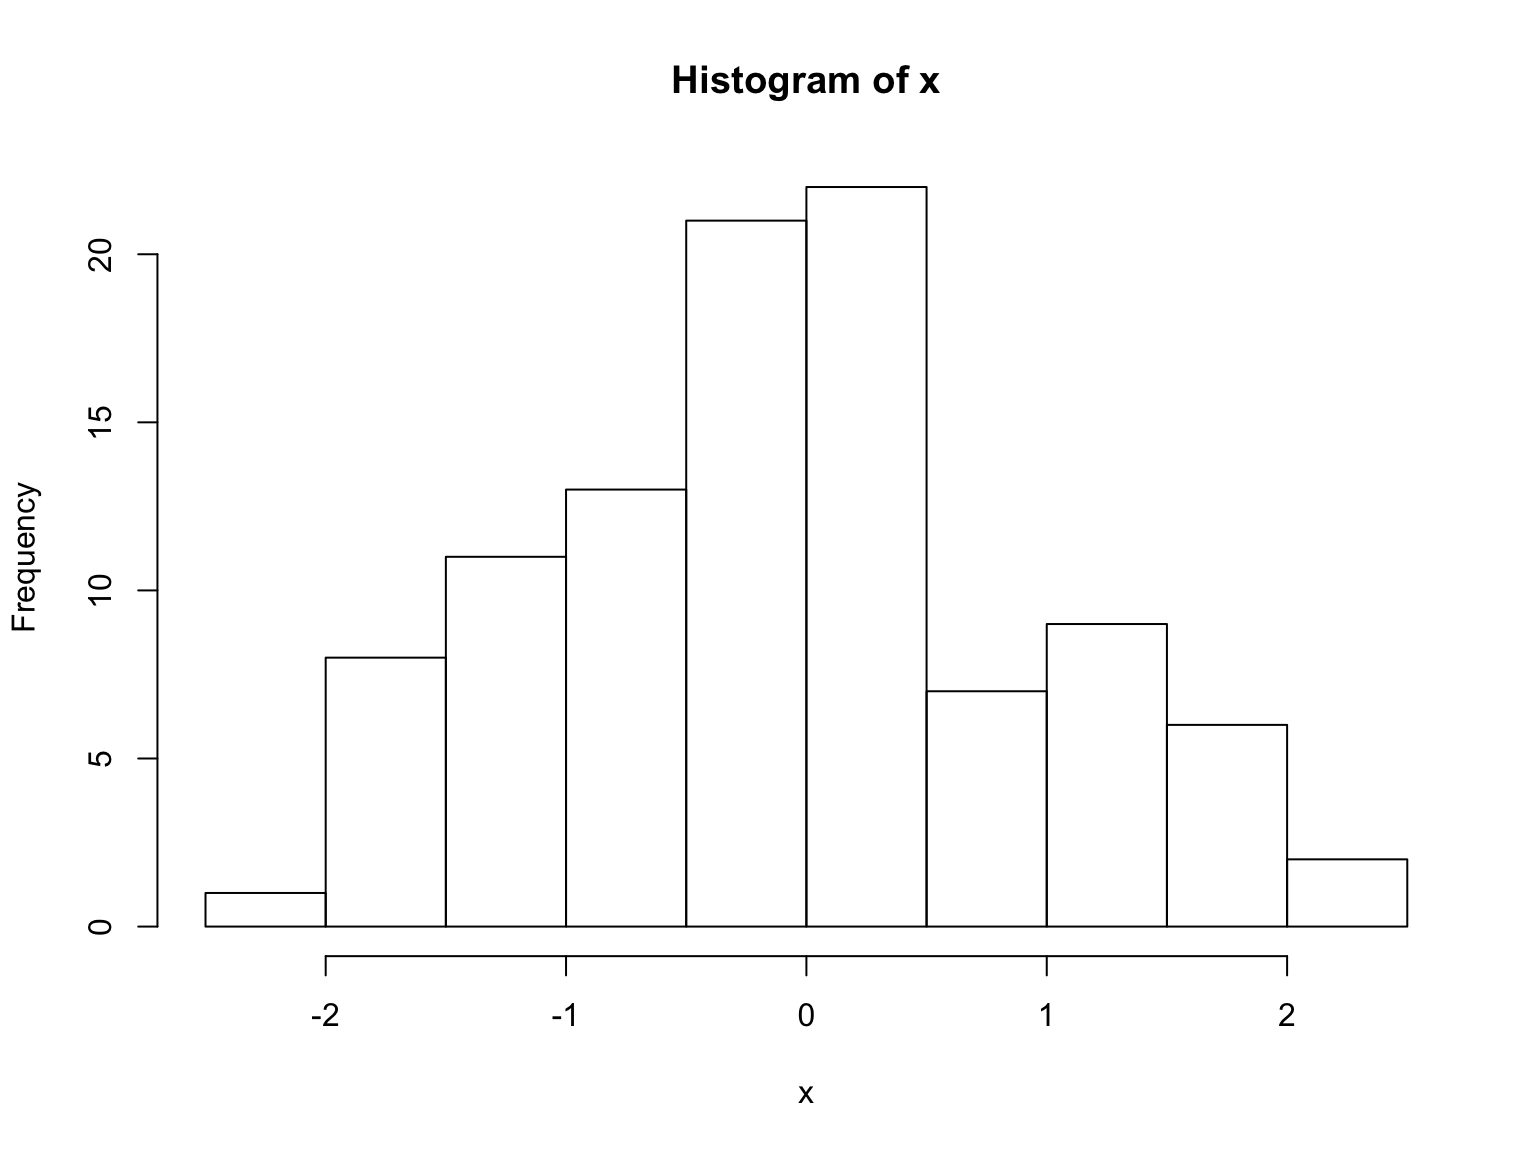
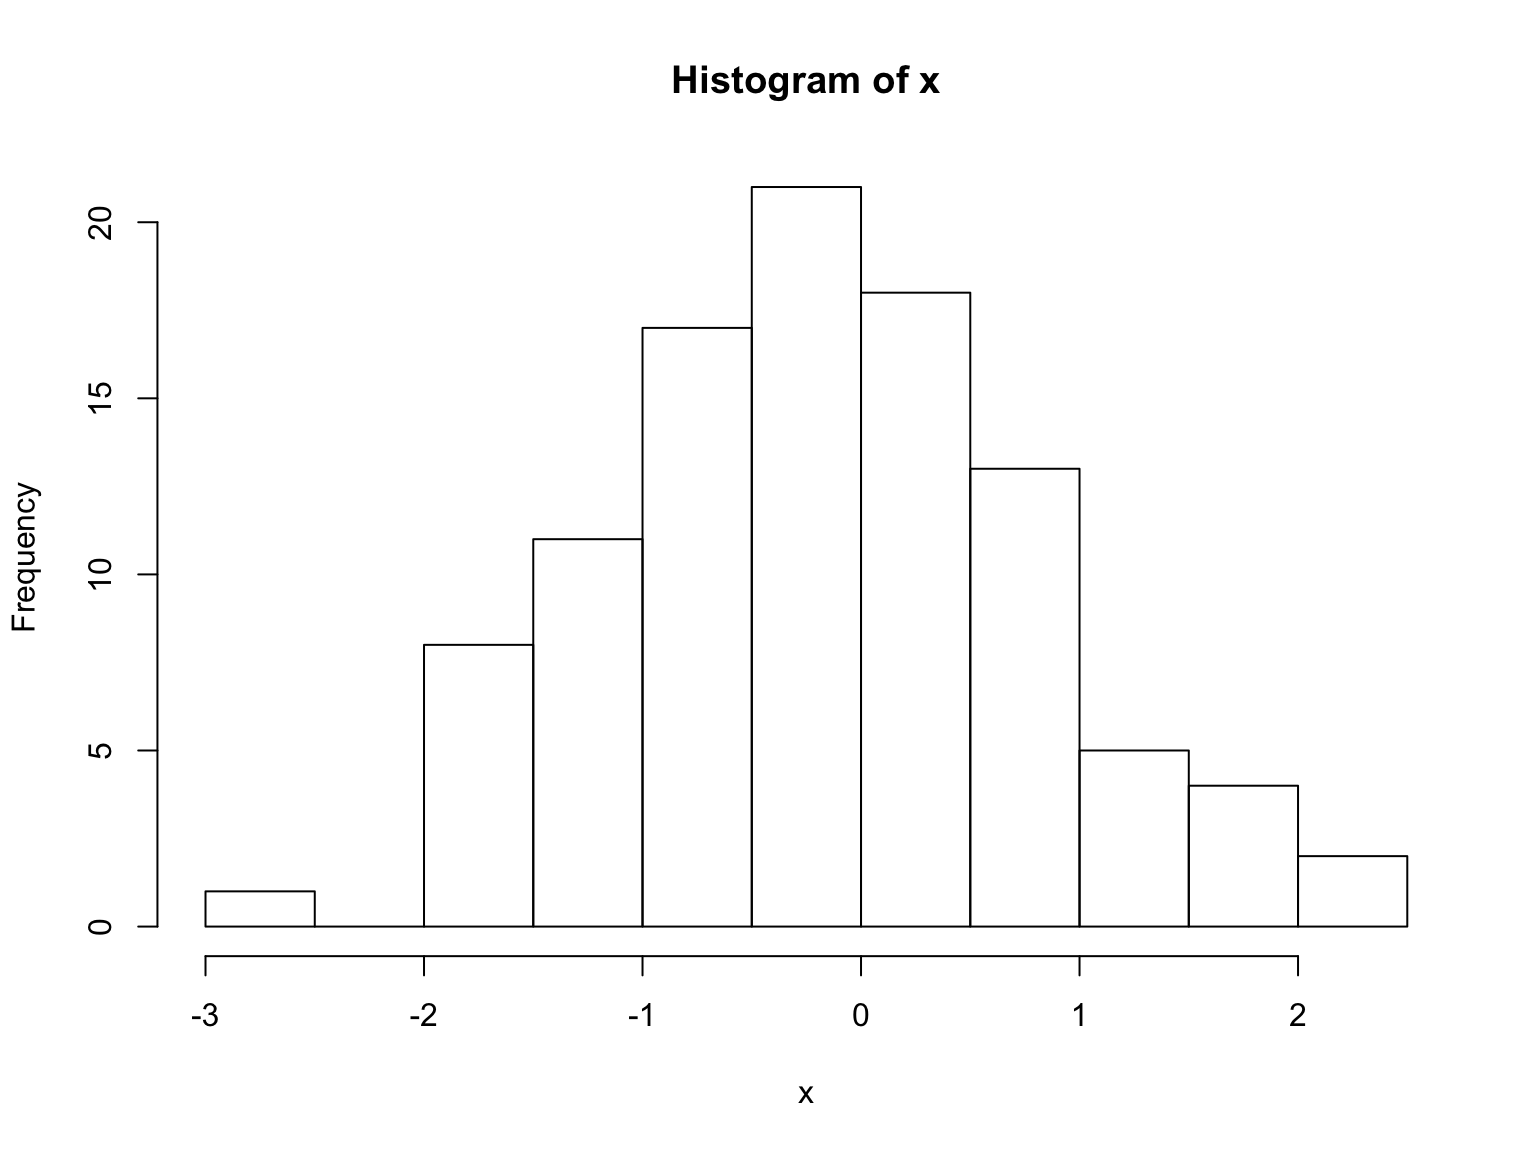
Fix typos

diff --git a/index.html b/index.html
@@ -494,6 +494,10 @@ document.getElementsByTagName('head')[0].appendChild(style);
 <p><img src="https://upload.wikimedia.org/wikipedia/commons/8/87/NSF_Logo.PNG" height=150px> <img src="https://science.nichd.nih.gov/confluence/download/attachments/34472103/NICHD-vertical-2-color.png?version=1&modificationDate=1477410070000&api=v2" height=150px> </br> <img src="https://sloan.org/storage/app/media/Logos/Sloan-Logo-stacked-black-web.png" height=150px> <img src="http://newsroom.unl.edu/announce/files/file77330.jpg" height=150px/> <img src="https://www.unicef.org.hk/wp-content/uploads/2017/08/Logo-05_Lego-foundation_UNICEF_partnership.jpg" height=150px /> </br> <img src="https://nationalpress.org/wp-content/uploads/2016/04/NIDA-logo-300x300.jpg" height=150px/> <img src="http://bewellva.com/wp-content/uploads/2017/12/NIMH-Logo_14-e1510955490255.jpg" height=150px/></p>
 <!-- Funding sources with icons -->
 </section>
+<section class="slide level2">
+
+<p><img src="https://upload.wikimedia.org/wikipedia/commons/thumb/0/0b/DenverCP.JPG/266px-DenverCP.JPG" height=150px/> <img src="http://watson.brown.edu/ds/sites/all/themes/ds/img/header/brown_large.png" height=150px/> <img src="https://www.wheretraveler.com/sites/default/files/styles/wt17_promoted/public/WashingtonDC-shutterstock_93633676.jpg?itok=IT7CL9PU" height=150px/> <img src="https://ai.cs.cmu.edu/sites/default/files/CMU.png" height=150px/> <img src="http://onwardstate.com/wp-content/uploads/2014/10/93" height=150px/> <img src="img/sleic.jpg" height=150px/></br> <img src="https://nyu.databrary.org/web/images/logo/databrary-nav.svg" height=150px></p>
+</section>
 <section id="agenda" class="slide level2">
 <h2>Agenda</h2>
 <ul>
@@ -541,8 +545,8 @@ document.getElementsByTagName('head')[0].appendChild(style);
 <aside class="notes">
 <p>Nature conducted a survey of some 1,600 scientists in 2016. They were asked this question and a few others. Here are the results.</p>
 </aside>
-</section><section id="have-you-failed-to-repoduce-an-experiment-from-your-lab-or-someone-elses" class="slide level2">
-<h2>Have you failed to repoduce an experiment from your lab or someone else’s?</h2>
+</section><section id="have-you-failed-to-reproduce-an-experiment-from-your-lab-or-someone-elses" class="slide level2">
+<h2>Have you failed to reproduce an experiment from your lab or someone else’s?</h2>
 </section><section class="slide level2">
 
 <div class="centered">
@@ -684,14 +688,15 @@ document.getElementsByTagName('head')[0].appendChild(style);
 
 <ul>
 <li>Lab website vs.</li>
-<li>Supplemental information with journal article vs.</li>
-<li>Data repository
+<li>Supplemental information with journal article</li>
+</ul>
+</section><section id="data-repository" class="slide level2">
+<h2>Data repository</h2>
 <ul>
 <li><a href="http://osf.io">Open Science Framework (OSF)</a></li>
 <li><a href="https://www.icpsr.umich.edu/icpsrweb/">ICPSR</a></li>
 <li><a href="http://databrary.org">Databrary</a></li>
 <li><a href="http://openneuro.org">OpenNeuro</a></li>
-</ul></li>
 </ul>
 </section><section class="slide level2">
 
@@ -774,7 +779,7 @@ source(&quot;R/Visualize_data.R&quot;)
 <span class="kw">hist</span>(x)</code></pre></div>
 </section><section id="section" class="slide level2">
 <h2><img src="index_files/figure-revealjs/unnamed-chunk-1-1.png" width="768" /></h2>
-<p>The mean is -0.0879351, the range is [-2.2292997, 2.3981749].</p>
+<p>The mean is -0.1486271, the range is [-2.5389672, 2.4507947].</p>
 </section><section id="ways-to-use-r-markdown" class="slide level2">
 <h2>Ways to use R Markdown</h2>
 <ul>
@@ -911,7 +916,7 @@ source(&quot;R/Visualize_data.R&quot;)
 <p><a href="https://gilmore-lab.github.io/2019-01-15-open-science-psu-hhd/" class="uri">https://gilmore-lab.github.io/2019-01-15-open-science-psu-hhd/</a></p>
 </section><section id="stack" class="slide level2">
 <h2>Stack</h2>
-<p>This talk was produced on 2019-01-15 in <a href="http://rstudio.com">RStudio</a> version using R Markdown and the reveal.JS framework. The code and materials used to generate the slides may be found at <a href="https://github.com/gilmore-lab/2019-01-15-open-seicne-psu-hhd/" class="uri">https://github.com/gilmore-lab/2019-01-15-open-seicne-psu-hhd/</a>. Information about the R Session that produced the code is as follows:</p>
+<p>This talk was produced on 2019-01-16 in <a href="http://rstudio.com">RStudio</a> version using R Markdown and the reveal.JS framework. The code and materials used to generate the slides may be found at <a href="https://github.com/gilmore-lab/2019-01-15-open-seicne-psu-hhd/" class="uri">https://github.com/gilmore-lab/2019-01-15-open-seicne-psu-hhd/</a>. Information about the R Session that produced the code is as follows:</p>
 <div class="sourceCode"><pre class="sourceCode r"><code class="sourceCode r"><span class="kw">sessionInfo</span>()</code></pre></div>
 <pre><code>## R version 3.5.1 (2018-07-02)
 ## Platform: x86_64-apple-darwin15.6.0 (64-bit)
